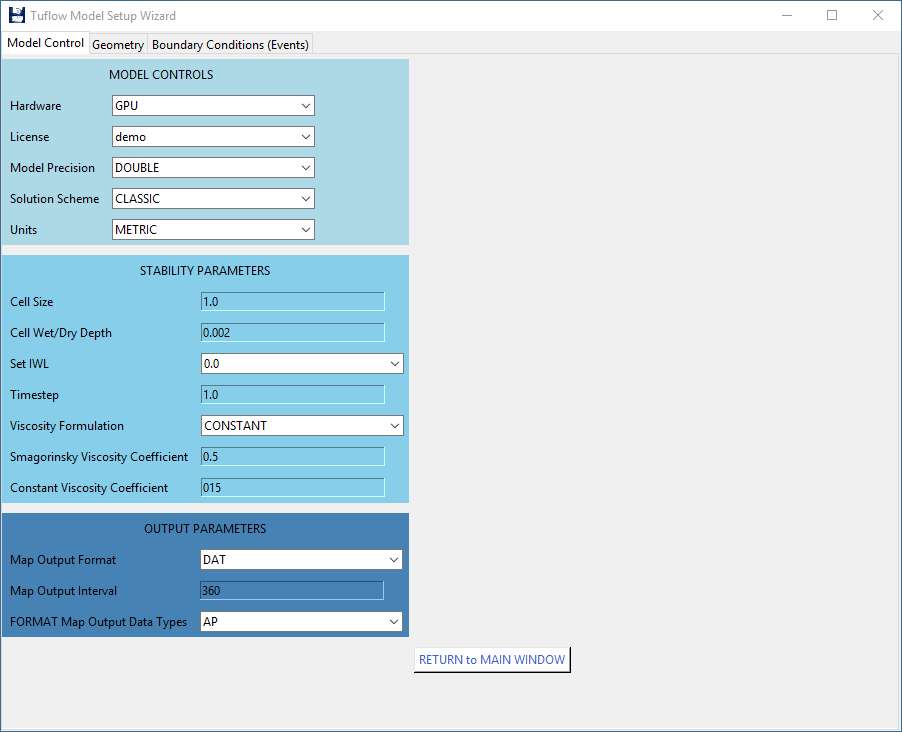
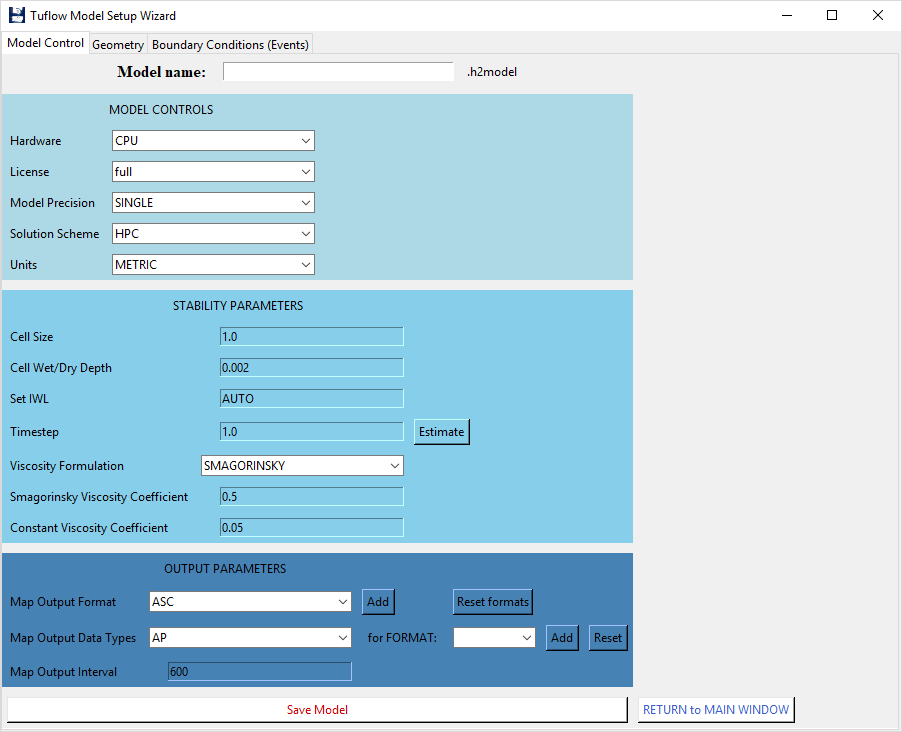
Update Tuflow

diff --git a/wiki/Tuflow.md b/wiki/Tuflow.md
@@ -25,11 +25,11 @@ We strongly recommend to validate the results of the *Tuflow* model, for instanc
 
 ## Get Started<a name="start"></a>
 
-*Hy2Opt*'s tabs invites the user for the creation of a model.
+*Hy2Opt*'s tabs invites to create or to select a model. A model can be created by selecting the [*"Model Setup Wizard"*](#msw).
 
 ![tfgui](https://raw.githubusercontent.com/sschwindt/hy2opt-wiki/master/assets/images/tuflow_start.png)
 
-The *Create Model Wizard* guides in X steps through the creation of a template for generating  a *Tuflow*  model. Before starting the wizard, a couple of input files need to be prepared, which require individual decisions. *Hy2Opt* provides templates and examples in the *templates4users/Tuflow* folder, which may be used in the file preparation described in the sections below.
+The [*Model Setup Wizard*](#msw) guides in X steps through the creation of a template for generating  a *Tuflow*  model. Before starting the wizard, a couple of input files need to be prepared, which require individual decisions. *Hy2Opt* provides templates and examples in the *templates4users/Tuflow* folder, which may be used in the file preparation described in the sections below.
 
 ## Preparation
 
@@ -94,26 +94,26 @@ The model must not only know where the water comes from (see polygon names defin
 ## Model Setup Wizard<a name="msw"></a>
 
 ***
-![tfmsw](https://raw.githubusercontent.com/sschwindt/hy2opt-wiki/master/assets/images/tuflow_start.png)
 
+![tfmsw](https://raw.githubusercontent.com/sschwindt/hy2opt-wiki/master/assets/images/msw.png)
 
 ### Model control parameters<a name="mcp"></a>
 
 The first step inquires input for model controls, which will be written to *runs/init/`MODEL_NAME.tcf`*. It asks for the following parameters, where drop-down menus provide valid *Tuflow* options (where applicable):
 
-| Parameter                      | Description                                                                                                                                                                                                                                                                                                                                                                                                                                                                                                                    |
-| ------------------------------ | ------------------------------------------------------------------------------------------------------------------------------------------------------------------------------------------------------------------------------------------------------------------------------------------------------------------------------------------------------------------------------------------------------------------------------------------------------------------------------------------------------------------------------ |
-| `License type`                 | *Tuflow* provides different licensing options that enable or restrict the modelling performance. ***Hy2Opt* enables the definition of subsequent parameters as a function of the select license.**                                                                                                                                                                                                                                                                                                                             |
-| `Model Precision`              | Recommended: `Single`. `Double` precision slows down the calculation on GPUs and should only be used for the `Classic` scheme with elevations of more than 100-1000m or with direct rainfall models (mass errors may otherwise occur here). *Hy2Opt* defines model precision via definition of the relevant *Tuflow* executable in the batchfile.                                                                                                                                                                              |
-| <sup>\*</sup>`Solution Scheme` | The `Classic` scheme is a (relatively) slow implicit solver that runs on one single core. The `HPC` scheme uses multiple CPUs (or GPU hardware) with an explicit solver for high speed calculation.                                                                                                                                                                                                                                                                                                                            |
-| `Units`                        | Select a unit system (must comply with the units of the later on required topography / DEM raster).                                                                                                                                                                                                                                                                                                                                                                                                                            |
-| <sup>\*</sup>`Hardware`        | If your computer has a **powerfull** GPU, this can increase the computing speed many times over. Otherwise (non or non-powerfull GPU), select `CPU`.                                                                                                                                                                                                                                                                                                                                                                           |
-| `Viscosity Formulation`        | Preferably use `SMAGORINSKY`. Use `CONSTANT` only when the cell size is much larger than the (expected) flow depth or when other turbulence sources govern (e.g., bed roughness).                                                                                                                                                                                                                                                                                                                                              |
+| Parameter                      | Description                                                                                                                                                                                                                                                                                                                                                                                                                                                                                 |
+| ------------------------------ | ------------------------------------------------------------------------------------------------------------------------------------------------------------------------------------------------------------------------------------------------------------------------------------------------------------------------------------------------------------------------------------------------------------------------------------------------------------------------------------------- |
+| `License type`                 | *Tuflow* provides different licensing options that enable or restrict the modelling performance. ***Hy2Opt* enables the definition of subsequent parameters as a function of the select license.**                                                                                                                                                                                                                                                                                          |
+| `Model Precision`              | Recommended: `Single`. `Double` precision slows down the calculation on GPUs and should only be used for the `Classic` scheme with elevations of more than 100-1000m or with direct rainfall models (mass errors may otherwise occur here). *Hy2Opt* defines model precision via definition of the relevant *Tuflow* executable in the batchfile.                                                                                                                                           |
+| <sup>\*</sup>`Solution Scheme` | The `Classic` scheme is a (relatively) slow implicit solver that runs on one single core. The `HPC` scheme uses multiple CPUs (or GPU hardware) with an explicit solver for high speed calculation.                                                                                                                                                                                                                                                                                         |
+| `Units`                        | Select a unit system (must comply with the units of the later on required topography / DEM raster).                                                                                                                                                                                                                                                                                                                                                                                         |
+| <sup>\*</sup>`Hardware`        | If your computer has a **powerfull** GPU, this can increase the computing speed many times over. Otherwise (non or non-powerfull GPU), select `CPU`.                                                                                                                                                                                                                                                                                                                                        |
+| `Viscosity Formulation`        | Preferably use `SMAGORINSKY`. Use `CONSTANT` only when the cell size is much larger than the (expected) flow depth or when other turbulence sources govern (e.g., bed roughness).                                                                                                                                                                                                                                                                                                           |
 | `Viscosity Coefficients`       | *C<sub>s</sub>* is the dimensionless [*Smagorinsky* coefficient][smag] and has a default value of 0.5. *C<sub>c</sub>* is the constant *Smagorinsky* coefficient and has a default value of 0.05 m²/s (US costomary: use 0.5382 ft²/s). Lower values tend to increase stability, higher values increase calculation speed.  If `Viscosity Formulation`==`CONSTANT` is used, *Hy2Opt* automatically uses the `Constant Viscosity Coefficient` only, where the recommended value is 1.0 m²/s. |
-| `Cell Size`                    | Min. the resolution of the input DEM raster. Coarse resolution results in higher calculation speed an less accuracy. The default is 1.0m.                                                                                                                                                                                                                                                                                                                                                                                      |
-| `Timestep`                     | The timestep (in seconds) depends on the cell size and should be max. 1/2 to 1/5 of the cell size in meters. The timestep must be small enough to satisfy the [Courant-Friedrichs-Lewy condition][cfl] for numerical stability. The `HPC` solutions scheme uses adaptive timesteps and the here defined value only repreents the initital condition. *Hy2Opt* comes with a calculator (`Estimate` button) for estimating the adequate timestep.                                                                                |
-| `Cell Wet/Dry Depth`           | Default: 0.002m. Define according to estimated flood magnitude depth. Should be smaller for direct rainfall approaches (shallow sheet flow).                                                                                                                                                                                                                                                                                                                                                                                   |
-| `Initial water level (IWL)`    | Default: `"AUTO"`. Should correspond to the target initial flow water level at the model outlet (downstream). *Hy2Opt* will override this value with a GIS file when model optimization is performed.                                                                                                                                                                                                                                                                                                                          |
+| `Cell Size`                    | Min. the resolution of the input DEM raster. Coarse resolution results in higher calculation speed an less accuracy. The default is 1.0m.                                                                                                                                                                                                                                                                                                                                                   |
+| `Timestep`                     | The timestep (in seconds) depends on the cell size and should be max. 1/2 to 1/5 of the cell size in meters. The timestep must be small enough to satisfy the [Courant-Friedrichs-Lewy condition][cfl] for numerical stability. The `HPC` solutions scheme uses adaptive timesteps and the here defined value only repreents the initital condition. *Hy2Opt* comes with a calculator (`Estimate` button) for estimating the adequate timestep.                                             |
+| `Cell Wet/Dry Depth`           | Default: 0.002m. Define according to estimated flood magnitude depth. Should be smaller for direct rainfall approaches (shallow sheet flow).                                                                                                                                                                                                                                                                                                                                                |
+| `Initial water level (IWL)`    | Default: `"AUTO"`. Should correspond to the target initial flow water level at the model outlet (downstream). *Hy2Opt* will override this value with a GIS file when model optimization is performed.                                                                                                                                                                                                                                                                                       |
 
 <sup>\*</sup>`PARAMETER`s marked with an asterisk are only available with a full *Tuflow* license.
 
